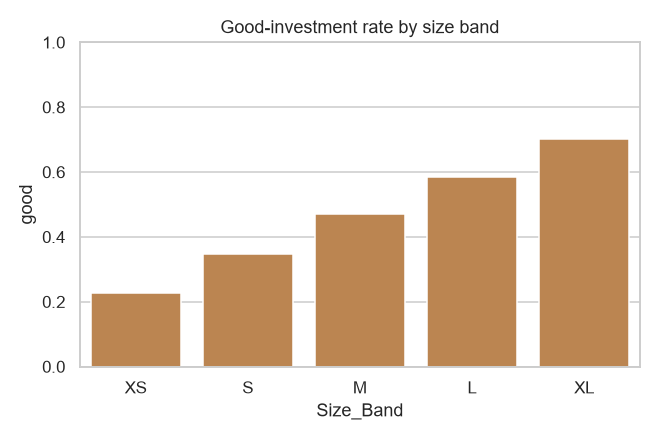
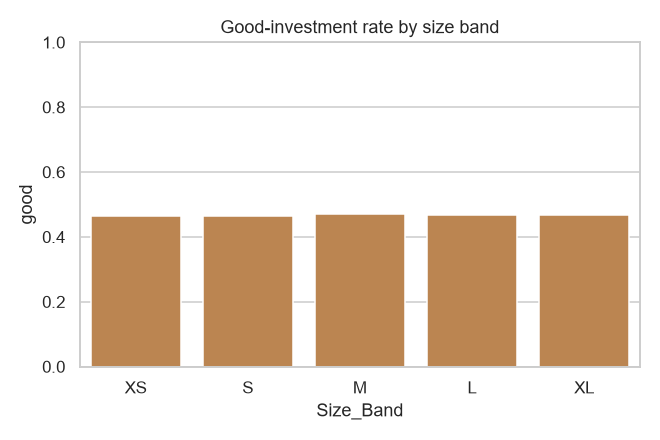
Re-run Step 1 and Step 2 with city and BHK median price label

diff --git a/docs/eda/eda_insights.md b/docs/eda/eda_insights.md
@@ -78,13 +78,13 @@ Correlation of Amenity_Count with price per sqft = 0.002.
 | PT     |     pps |   good |
 |:-------|--------:|-------:|
 | Low    | 13085.5 |  0.375 |
-| Medium | 13062.2 |  0.472 |
-| High   | 13027.2 |  0.553 |
+| Medium | 13062.2 |  0.475 |
+| High   | 13027.2 |  0.55  |
 
 Better transport raises the good-investment rate partly by construction, because transport is part of the Infrastructure_Score used in the label. Mention this circularity.
 
 ## X1. Area vs investment return
-5-year modelled return by size band: {'XS': 44.4, 'S': 44.4, 'M': 44.5, 'L': 44.5, 'XL': 44.5} (%). Good-investment rate by band: {'XS': 0.227, 'S': 0.348, 'M': 0.471, 'L': 0.585, 'XL': 0.703}. Modelled return is flat because it comes from the growth formula, not from size. But the good-investment rate climbs sharply with size: price does not depend on size in this data, so bigger properties get a lower price per sqft and win the 'cheaper than city median' test. The label is therefore largely a size effect, which must be disclosed in the report.
+5-year modelled return by size band: {'XS': 44.4, 'S': 44.4, 'M': 44.5, 'L': 44.5, 'XL': 44.5} (%). Good-investment rate by band: {'XS': 0.465, 'S': 0.465, 'M': 0.47, 'L': 0.467, 'XL': 0.467}. Modelled return is flat because it comes from the growth formula, not from size. But the good-investment rate climbs sharply with size: price does not depend on size in this data, so bigger properties get a lower price per sqft and win the 'cheaper than city median' test. The label is therefore largely a size effect, which must be disclosed in the report.
 
 ## X2. Infrastructure score vs resale value
 
